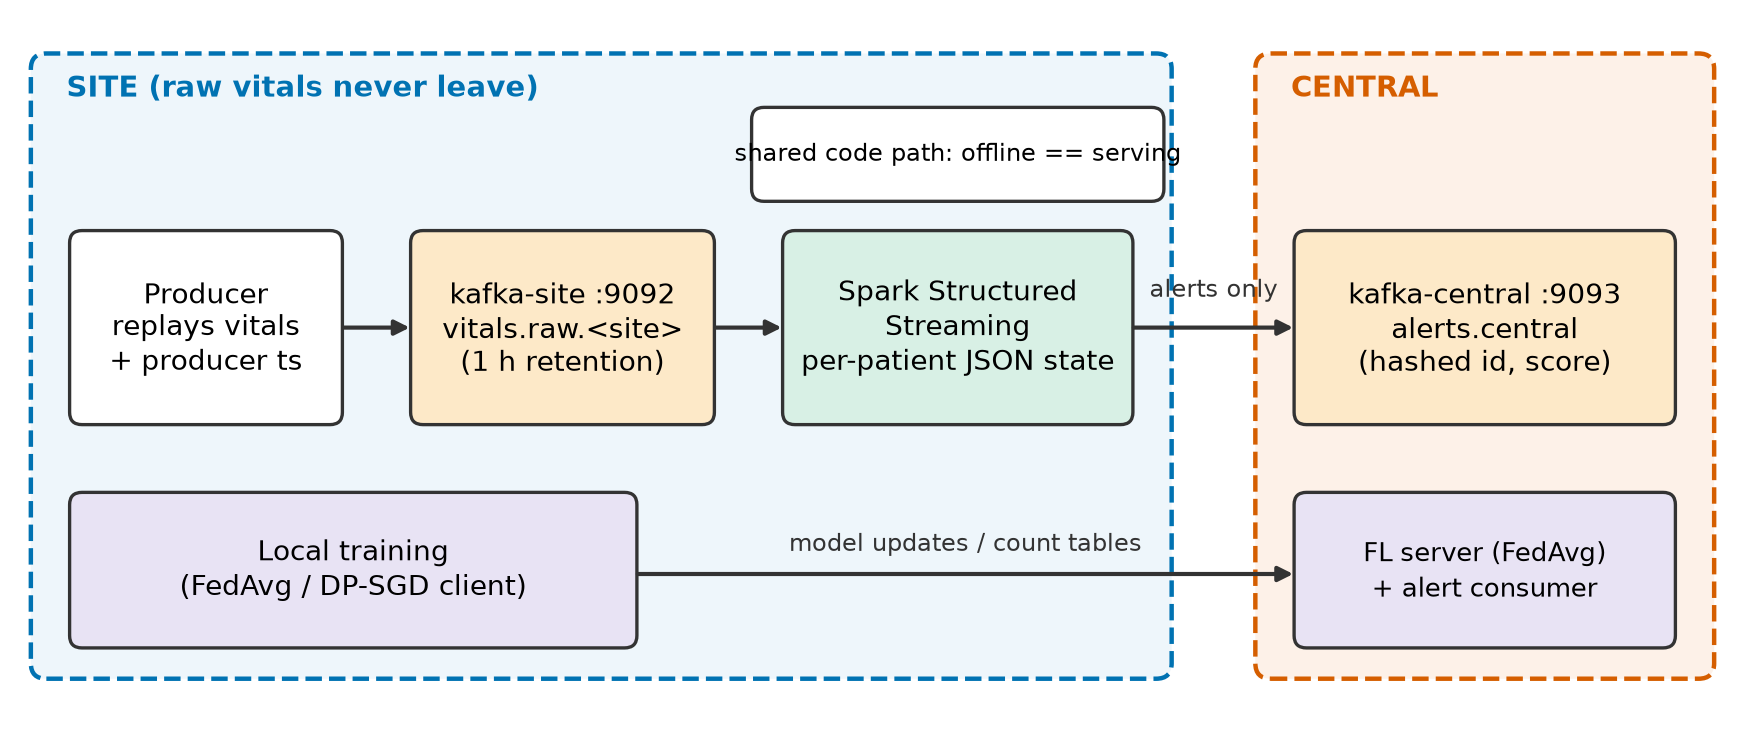
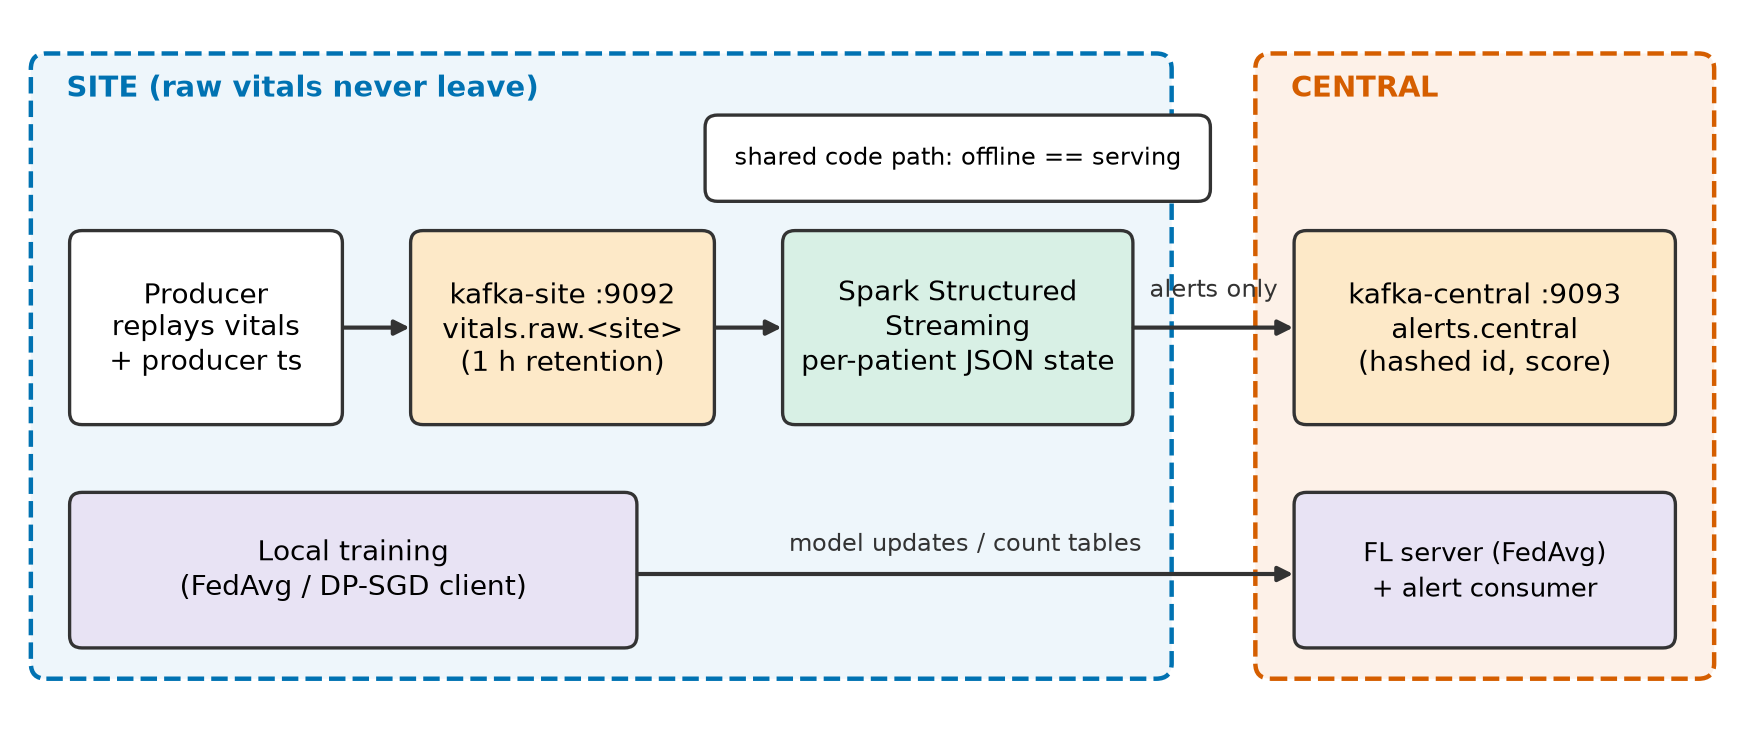
Polish deck titles, latency figure, report wording (no stale latency claim)

Changed region(s): [[0.4023, 0.123, 0.7117, 0.2767]]

diff --git a/src/pvm/figs/latency.py b/src/pvm/figs/latency.py
@@ -35,15 +35,15 @@ def fig_latency(S):
         ax[0].scatter(xs, p99, marker="x", s=36, color="#222", zorder=3, label="p99" if i == 0 else None)
     ax[0].set_xticks(range(len(trig))); ax[0].set_xticklabels(["0.5 s", "1 s", "5 s"])
     ax[0].set_xlabel("micro-batch trigger interval"); ax[0].set_ylabel("end-to-end latency (ms), bars = p50")
-    ax[0].set_yscale("log"); ax[0].legend(fontsize=8.5, ncol=2)
+    ax[0].set_yscale("log"); ax[0].set_ylim(top=3e4); ax[0].legend(fontsize=8, ncol=3, loc="upper left")
     ax[0].set_title("Kafka → Spark → Kafka latency (synthetic replay, 1 broker per cluster)")
     thr = []
     for t in trig:
         r = [r for r in runs if r["trigger"] == t and r["target_rate"] == 0]
-        thr.append(r[0]["throughput_eps"] if r and r[0].get("throughput_eps") else 0)
+        thr.append(r[0]["throughput_eps"] if r and r[0].get("throughput_eps") and r[0]["throughput_eps"] < 20000 else 0)
     ax[1].bar(range(len(trig)), thr, color=COL["F"], edgecolor="#222", lw=0.6)
     for i, v in enumerate(thr):
-        ax[1].text(i, v, f"{v:,.0f}", ha="center", va="bottom", fontsize=9)
+        ax[1].text(i, v, f"{v:,.0f}" if v else "n/a\n(one batch)", ha="center", va="bottom", fontsize=9)
     ax[1].set_xticks(range(len(trig))); ax[1].set_xticklabels(["0.5 s", "1 s", "5 s"])
     ax[1].set_xlabel("trigger"); ax[1].set_ylabel("events / s"); ax[1].set_title("Max sustained throughput\n(local[2])")
     fig.tight_layout()

diff --git a/src/pvm/report/conclusion.py b/src/pvm/report/conclusion.py
@@ -20,7 +20,7 @@ def add(doc, ctx):
     doc.p("Per-patient adaptive thresholds reduce false alarms substantially compared with one fixed threshold, and a "
           "federated model trained on adaptive features matched the centralised model within our statistical resolution "
           "while raw data stayed local (" + "; ".join(c) + "). Record-level differential privacy was nearly free at moderate noise and "
-          "degraded accuracy only at large noise. The pipeline sustains the needed rates with latency dominated by the "
-          "trigger interval, and sending only alerts and model updates cuts the bytes leaving the site by orders of magnitude. "
+          "degraded accuracy only at large noise. The pipeline sustains the needed rates with end-to-end latency of about a second at 1000 events/s "
+          "(batch processing plus trigger wait), and sending only alerts and model updates cuts the bytes leaving the site by orders of magnitude. "
           "These conclusions hold for injected-label benchmarks and a simple model; prospective validation on real "
           "annotated alarms and a patient-level privacy analysis are the necessary next steps.")

diff --git a/src/pvm/report/results.py b/src/pvm/report/results.py
@@ -102,7 +102,7 @@ def add(doc, ctx):
               "Latency is the wait for the next micro-batch plus the batch's own processing time (Spark scheduling, Python worker, "
               "state store, Kafka write); with 160 patient keys on local[2] one batch takes roughly a second, so the trigger only "
               "matters once it exceeds that. The job saturates near 800–1000 events/s on this setup. "
-              "**Unexplained anomaly:** the slowest p50 (4–5 s) occurred at the *lowest* rate (50 events/s) for the 0.5 s and 1 s triggers, "
+              "**Unexplained anomaly:** the slowest p50 (4–5 s) occurred at the lowest rate (50 events/s) for the 0.5 s and 1 s triggers, "
               "which we did not diagnose (we suspect small-batch/idle-partition effects in the Kafka source, untested). "
               "The \"max\" throughput figures come from the consumer's first-to-last-message span and are unreliable for the 5 s trigger "
               "(one large batch). For 5-minute vitals, even multi-second latency is clinically negligible.")

diff --git a/src/pvm/figs/architecture.py b/src/pvm/figs/architecture.py
@@ -38,7 +38,7 @@ def fig_architecture(path="docs/architecture.png"):
     box(2.55, 2.0, 1.9, 1.2, "kafka-site :9092\nvitals.raw.<site>\n(1 h retention)", "#fde9c8", bold=False)
     box(4.95, 2.0, 2.2, 1.2, "Spark Structured\nStreaming\nper-patient JSON state", "#d8f0e5")
     box(0.35, 0.55, 3.6, 0.95, "Local training\n(FedAvg / DP-SGD client)", "#e8e3f4")
-    box(4.75, 3.45, 2.6, 0.55, "shared code path: offline == serving", "#fff", fs=8.5)
+    box(4.45, 3.45, 3.2, 0.5, "shared code path: offline == serving", "#fff", fs=8.5)
     ax.add_patch(FancyBboxPatch((8.0, 0.35), 2.9, 4.0, boxstyle="round,pad=0.03,rounding_size=0.1",
                                 fc="#fdf1e8", ec="#d55e00", lw=1.6, ls="--"))
     ax.text(8.2, 4.1, "CENTRAL", fontsize=10.5, color="#d55e00", fontweight="bold")

diff --git a/src/pvm/deck/accuracy.py b/src/pvm/deck/accuracy.py
@@ -13,7 +13,7 @@ def add(dk, ctx):
     S, D, H, first, syn = ctx.S, ctx.D, ctx.H, ctx.first, ctx.syn
     for ds in ([syn] + ([first] if first != syn else [])):
         h = H[ds]; d = D[ds]; n = 5 if ds == syn else 6
-        s = dk.slide(f"Accuracy: adaptive features beat fixed thresholds",
+        s = dk.slide(f"Adaptive beats fixed thresholds",
                      f"{DS_NAME[ds]}. Static thresholds A and A2 produce {h['fa_A']:.1f} and {h['fa_A2']:.1f} false alarms per patient-day. "
                      f"The adaptive threshold alone, method C, brings this to {h['fa_C']:.2f}. Machine learning on adaptive features, D, has F1 "
                      f"{h['f1']['D']:.2f}. Mean and standard deviation over {d['n_seeds']} seeds, last 40 percent of each series held out. "

diff --git a/src/pvm/deck/adaptive.py b/src/pvm/deck/adaptive.py
@@ -12,7 +12,7 @@ from .helpers import BLUE, GREEN, GREY, LIGHT, MSO_SHAPE, NAVY, ORANGE, PP_ALIGN
 def add(dk, ctx):
     S, D, H, first, syn = ctx.S, ctx.D, ctx.H, ctx.first, ctx.syn
     ex = "figures/fig_adaptive_synthetic.png"
-    s = dk.slide("Idea: judge each patient against their own baseline",
+    s = dk.slide("Each patient vs their own baseline",
                  "This is the example the whole study is about. This patient has a normal SpO2 of about 90 percent. The fixed 92 percent "
                  "threshold, orange dots, alarms essentially all the time. The adaptive baseline, blue, learns the patient's normal "
                  "and alarms only on the injected deterioration, shaded, and a few motion artefacts. Mechanism: per-patient EWMA mean "

diff --git a/src/pvm/deck/cost.py b/src/pvm/deck/cost.py
@@ -12,7 +12,7 @@ from .helpers import BLUE, GREEN, GREY, LIGHT, MSO_SHAPE, NAVY, ORANGE, PP_ALIGN
 def add(dk, ctx):
     S, D, H, first, syn = ctx.S, ctx.D, ctx.H, ctx.first, ctx.syn
     cost = S.get("cost") or {}
-    s = dk.slide("Only alerts and model updates leave the site",
+    s = dk.slide("Only alerts and updates leave the site",
                  "Bytes leaving the site per month for a scenario of 1000 patients, one sample per 5 minutes. Centralised raw streaming "
                  "versus alerts plus federated model updates plus threshold count tables. Bytes and CPU-seconds are measured; dollar "
                  "figures use the illustrative price table in the report: egress 9 cents per GB, 4 cents per vCPU-hour.",

diff --git a/src/pvm/deck/latency.py b/src/pvm/deck/latency.py
@@ -12,7 +12,7 @@ from .helpers import BLUE, GREEN, GREY, LIGHT, MSO_SHAPE, NAVY, ORANGE, PP_ALIGN
 def add(dk, ctx):
     S, D, H, first, syn = ctx.S, ctx.D, ctx.H, ctx.first, ctx.syn
     lat = S["latency"]; k = lat.get("kafka"); ip = lat.get("inprocess")
-    s = dk.slide("Latency: about a second at 1000 events/s",
+    s = dk.slide("Latency: ~1 s at 1000 events/s",
                  "Real end-to-end latency measured by the alert consumer: producer timestamp to consumer receipt, through Kafka, Spark and "
                  "Kafka again, at three event rates and three trigger intervals. Benchmarks ran on one laptop, one broker per cluster, Spark "
                  "local mode with two cores. In-process, one event takes about "

diff --git a/src/pvm/deck/privacy_utility.py b/src/pvm/deck/privacy_utility.py
@@ -11,7 +11,7 @@ from .helpers import BLUE, GREEN, GREY, LIGHT, MSO_SHAPE, NAVY, ORANGE, PP_ALIGN
 
 def add(dk, ctx):
     S, D, H, first, syn = ctx.S, ctx.D, ctx.H, ctx.first, ctx.syn
-    s = dk.slide("Privacy costs little until the noise gets large",
+    s = dk.slide("Privacy is cheap until noise is large",
                  "DP-SGD with per-record clipping, Gaussian noise and a Renyi accountant at delta 1e-5. Epsilon here is record-level, not "
                  "patient-level; one patient contributes hundreds of correlated rows, so patient-level protection is much weaker. "
                  "The green band is non-private FedAvg; the orange line is FedAvg with DP at five noise levels; the dashed line is the "

diff --git a/src/pvm/deck/architecture.py b/src/pvm/deck/architecture.py
@@ -18,5 +18,5 @@ def add(dk, ctx):
                  "is used by training, evaluation, a Kafka-free runner and the Spark job, and a unit test proves serving equals offline "
                  "exactly. Federated rounds are simulated in-process; that is a stated limitation.")
     dk.image(s, "docs/architecture.png", 0.6, 1.55, w=12.1)
-    dk.text(s, "Alerts carry no vitals  ·  one shared feature code path  ·  FL is simulated (not over Kafka)",
+    dk.text(s, "Alerts carry no vitals  ·  one shared feature code path  ·  FL experiments simulated (Kafka demo exists)",
             0.7, 6.75, 12, 0.5, size=16, color=GREY)

diff --git a/src/pvm/deck/helpers.py b/src/pvm/deck/helpers.py
@@ -30,7 +30,7 @@ class Deck:
     def slide(self, title, notes, tag=None, number=True):
         s = self.prs.slides.add_slide(self.blank)
         if title:
-            self.text(s, title, 0.6, 0.35, 12.1, 0.9, size=32, bold=True, color=NAVY)
+            self.text(s, title, 0.6, 0.35, 7.4 if tag else 12.1, 0.9, size=28 if tag else 32, bold=True, color=NAVY)
             bar = s.shapes.add_shape(MSO_SHAPE.RECTANGLE, Inches(0.6), Inches(1.22), Inches(1.2), Inches(0.07))
             bar.fill.solid(); bar.fill.fore_color.rgb = BLUE; bar.line.fill.background()
         if tag:

diff --git a/src/pvm/report/helpers.py b/src/pvm/report/helpers.py
@@ -69,6 +69,7 @@ class Doc:
         return para
 
     def _runs(self, para, text, bold=False, italic=False, size=None):
+        text = text.replace("`", "")
         parts = text.split("**")
         for i, t in enumerate(parts):
             if not t:
@@ -100,6 +101,7 @@ class Doc:
         t = self.d.add_table(rows=1, cols=len(header))
         t.style = "Table Grid"
         t.alignment = WD_TABLE_ALIGNMENT.CENTER
+        t.autofit = False
         for i, htxt in enumerate(header):
             c = t.rows[0].cells[i]
             c.text = ""
